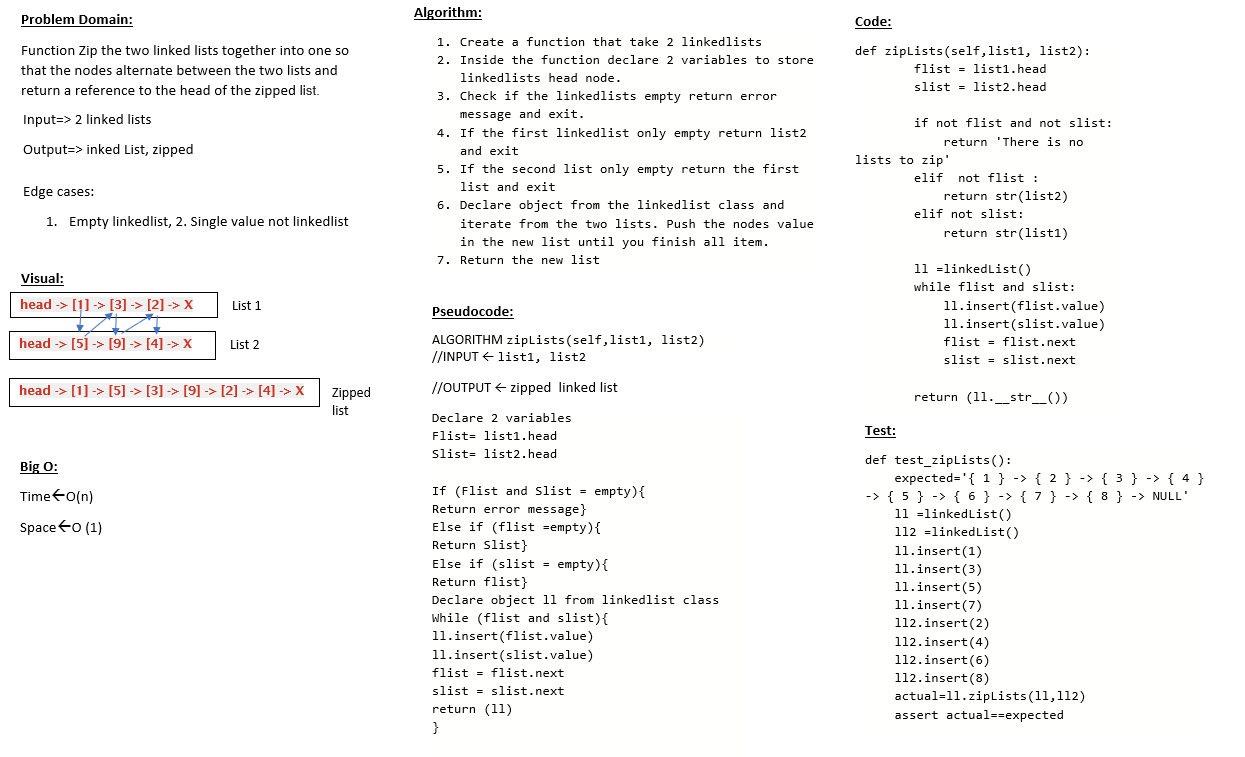
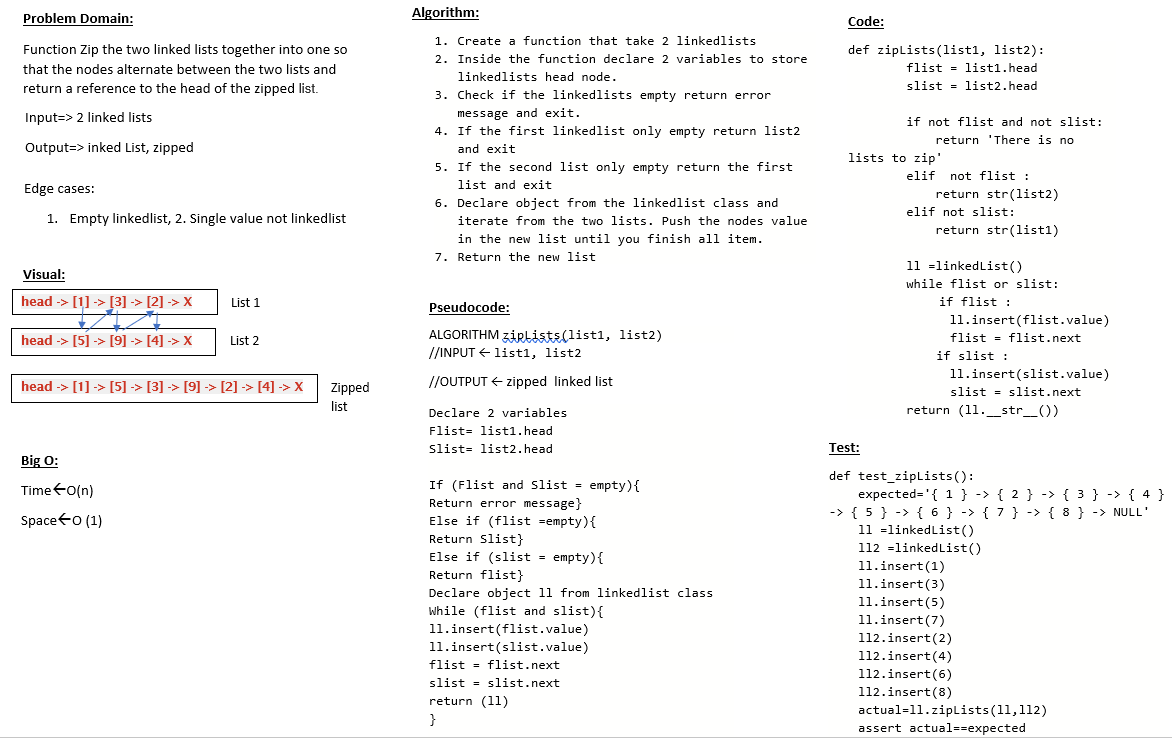
updated the test

diff --git a/python/code_challenges/linked_list/linked_list.py b/python/code_challenges/linked_list/linked_list.py
@@ -152,33 +152,35 @@ class linkedList:
                 return result
             current = current.next
 
-    def zipLists(self,list1, list2):
-        """
-        This function Zip the two linked lists together into one so that the nodes alternate
-        between the two lists and return a reference to the head of the zipped list.
+def zipLists(list1, list2):
+    """
+    This function Zip the two linked lists together into one so that the nodes alternate
+     between the two lists and return a reference to the head of the zipped list.
 
-        Arguments: 2 linked lists
-        Return: Linked List, zipped .
+    Arguments: 2 linked lists
+    Return: Linked List, zipped .
 
-        """
-        flist = list1.head
-        slist = list2.head
+    """
+    flist = list1.head
+    slist = list2.head
 
-        if not flist and not slist:
-            return 'There is no lists to zip'
-        elif  not flist :
-            return str(list2)
-        elif not slist:
-            return str(list1)
+    if not flist and not slist:
+        return 'There is no lists to zip'
+    elif  not flist :
+        return str(list2)
+    elif not slist:
+        return str(list1)
 
-        ll =linkedList()
-        while flist and slist:
-            ll.insert(flist.value)
-            ll.insert(slist.value)
-            flist = flist.next
-            slist = slist.next
+    ll =linkedList()
+    while flist or slist:
+        if flist :
+         ll.insert(flist.value)
+         flist = flist.next
+        if slist :
+         ll.insert(slist.value)
+         slist = slist.next
 
-        return (ll.__str__())
+    return (ll.__str__())
 
 
 
@@ -198,7 +200,9 @@ if __name__ =="__main__":
     ll2.insert(4)
     ll2.insert(6)
     ll2.insert(8)
-    y=ll2.zipLists(ll,ll2)
+    ll2.insert(10)
+    ll2.insert(12)
+    y=zipLists(ll,ll2)
     print(y)
     ll.insert_before(3,5)
     print(ll.__str__())

diff --git a/python/code_challenges/linked_list/test_linked_list.py b/python/code_challenges/linked_list/test_linked_list.py
@@ -221,7 +221,7 @@ def test_zipLists():
     ll2.insert(4)
     ll2.insert(6)
     ll2.insert(8)
-    actual=ll.zipLists(ll,ll2)
+    actual=zipLists(ll,ll2)
     assert actual==expected
 
 #@pytest.mark.skip('todo')
@@ -231,7 +231,7 @@ def test_zipLists_empty_lists():
      # Act
     first_ll =linkedList()
     second_ll =linkedList()
-    actual= first_ll.zipLists(first_ll,second_ll)
+    actual=zipLists(first_ll,second_ll)
     #Assert
     assert excepted==actual
 
@@ -245,7 +245,7 @@ def test_first_list_empty():
     second_ll.insert(5)
     second_ll.append(3)
     second_ll.append(2)
-    actual= first_ll.zipLists(first_ll,second_ll)
+    actual= zipLists(first_ll,second_ll)
     #Assert
     assert excepted==actual
 
@@ -258,6 +258,24 @@ def test_second_list_empty():
     first_ll.insert(5)
     first_ll.append(3)
     first_ll.append(2)
-    actual= first_ll.zipLists(first_ll,second_ll)
+    actual= zipLists(first_ll,second_ll)
     #Assert
     assert excepted==actual
+
+#@pytest.mark.skip('todo')
+def test_zipLists_second_LL_longer():
+    expected='{ 1 } -> { 2 } -> { 3 } -> { 4 } -> { 5 } -> { 6 } -> { 7 } -> { 8 } -> { 10 } -> { 12 } -> NULL'
+    ll =linkedList()
+    ll2 =linkedList()
+    ll.insert(1)
+    ll.insert(3)
+    ll.insert(5)
+    ll.insert(7)
+    ll2.insert(2)
+    ll2.insert(4)
+    ll2.insert(6)
+    ll2.insert(8)
+    ll2.insert(10)
+    ll2.insert(12)
+    actual=zipLists(ll,ll2)
+    assert actual==expected
